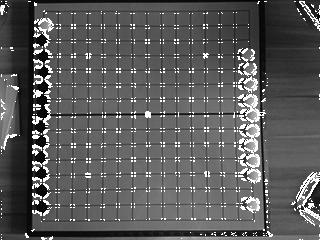
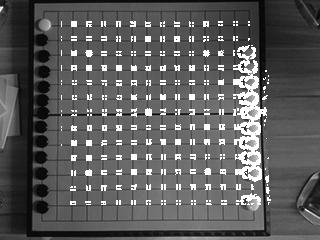
Update.

diff --git a/RECOGNITION/Harris/SOFT_SIM/sim1.py b/RECOGNITION/Harris/SOFT_SIM/sim1.py
@@ -2,7 +2,9 @@ __author__ = 'Dai Tianyu (dtysky)'
 
 from PIL import Image
 import os
-import WindowCreat,MeanFitter,MidFitter
+from WindowCreat import Window
+from RowsCreat import Rows
+from MeanFitter import mean_fitter
 
 ModuleName='Harris'
 
@@ -13,45 +15,48 @@ Right = 280
 
 FileAll = []
 
-for root,dirs,files in os.walk('../IMAGE_FOR_TEST'):
-    for f in files:
-        if os.path.splitext(f)[1]=='.jpg':
-        	FileAll.append((root+'/',f))
-
-def harris(im,d_value,wsize_fitter):
-	def in_range(x,y):
-		return x > Left and x < Right and y > Top and y < Bottom
-	im_fitter = MeanFitter.creat(im,wsize_fitter)
-	#im_fitter = MidFitter.creat(im,wsize_fitter)
+def fitter(im, wsize):
+	data_src = im.getdata()
 	xsize,ysize = im.size
 	data_res = []
+	rows = Rows(data_src, wsize, xsize)
+	win = Window(wsize)
+	for i in range(len(data_src)):
+		if rows.frame_empty():
+			rows = Rows(data_src, wsize, xsize)
+		w = win.update(rows.update())
+		if win.is_enable():
+			data_res.append(mean_fitter(w))
+	return data_res
 
+def harris(im, d_value):
+	def in_range(x,y):
+		return x > Left and x < Right and y > Top and y < Bottom
+	data_src = im.getdata()
+	xsize,ysize = im.size
+	data_res = []
 	now_pix = 0
 	last_pix_col = 0
 	last_pix_row = []
-	for i in range(xsize):
-		last_pix_row.append(0)
-
+	rows = Rows(data_src, 3, xsize)
+	win = Window(3)
 	for y in range(ysize):
 		for x in range(xsize):
-			now_pix = im_fitter[y * xsize + x]
-			if x == 0:
-				last_pix_col = now_pix
-			if y == 0:
-				last_pix_row[x] = now_pix
-
-			diff_col = abs(now_pix - last_pix_col)
-			diff_row = abs(now_pix - last_pix_row[x])
-
-			# if in_range(x,y):
-			# 	data_res.append(1 if diff_col >= d_value and diff_row >= d_value else 0)
-			# else:
-			# 	data_res.append(0)
-			data_res.append(1 if diff_col >= d_value and diff_row >= d_value else 0)
-
-			last_pix_col = now_pix
-			last_pix_row[x] = now_pix
-
+			if rows.frame_empty():
+				rows = Rows(data_src, 3, xsize)
+			w = win.update(rows.update())
+			pix_tblr = [w[0][1],w[2][1],w[1][0],w[1][2]]
+			pix_now = w[1][1]
+			diff_tblr = []
+			for pix in pix_tblr:
+				diff_tblr.append(abs(pix_now - pix))
+			pix_res = 0
+			if in_range(x,y):
+				for d_tb in diff_tblr[0:2]:
+					for d_lr in diff_tblr[2:4]:
+						if d_tb >= d_value and d_lr >= d_value:
+							pix_res = 1
+			data_res.append(pix_res)
 	return data_res
 
 def harris_mark(im,harris_res):
@@ -60,19 +65,19 @@ def harris_mark(im,harris_res):
 	for y in range(ysize):
 		for x in range(xsize):
 			if harris_res[y * xsize + x]:
-				# if x > 0 and y > 0:
-				# 	im_res.putpixel((x-1,y),255)
-				# 	im_res.putpixel((x,y-1),255)
 				im_res.putpixel((x,y),255)
-				# if x < xsize-1 and y < ysize-1:
-				# 	im_res.putpixel((x+1,y),255)
-				# 	im_res.putpixel((x,y+1),255)
 	return im_res
+
+for root,dirs,files in os.walk('../IMAGE_FOR_TEST'):
+    for f in files:
+        if os.path.splitext(f)[1]=='.jpg':
+        	FileAll.append((root+'/',f))
 
 for root,f in FileAll:
 	im_src = Image.open(root+f)
-	harris_res = harris(im_src,5,3)
-	# open('../SIM_CHECK/soft' + f + '.dat','w').write(str(harris_res))
+	im_tmp = im_src.copy()
+	im_tmp.putdata(fitter(im_src, 3))
+	harris_res = harris(im_tmp, 5)
 	im_res = Image.new('1',im_src.size)
 	im_res.putdata(harris_res)
 	im_res.save('../SIM_CHECK/soft' + f + '.bmp')

diff --git a/WINDOW/MeanFitter/SOFT_SIM/sim1.py b/WINDOW/MeanFitter/SOFT_SIM/sim1.py
@@ -2,9 +2,10 @@ __author__ = 'Dai Tianyu (dtysky)'
 
 from PIL import Image
 import os
-import WindowCreat
+from WindowCreat import Window
+from RowsCreat import Rows
 
-ModuleName='WindowCreat'
+ModuleName='MeanFitter'
 
 FileAll = []
 
@@ -13,28 +14,31 @@ for root,dirs,files in os.walk('../IMAGE_FOR_TEST'):
         if os.path.splitext(f)[1]=='.jpg':
         	FileAll.append((root+'/',f))
 
-def mean_th_creat(window):
-	s = sum(window)
-	return s / len(window)
+def mean_fitter(window):
+	w_sum = 0
+	w_len = 0
+	for row in window:
+		w_sum += sum(row)
+		w_len += len(row)
+	return w_sum / w_len
 
-def mid_creat(window):
-	return sorted(window)[len(window)/2]
-
-def mean_creat(im):
+def creat(im, wsize):
 	data_src = im.getdata()
 	xsize,ysize = im.size
 	data_res = []
-	for y in range(ysize):
-		for x in range(xsize):
-			gray = data_src[y * xsize + x]
-			window = WindowCreat.window_creat(9,data_src,xsize,ysize,x,y)
-			th = mean_th_creat(window)
-			data_res.append(th)
+	rows = Rows(data_src, wsize, xsize)
+	win = Window(wsize)
+	for i in range(len(data_src)):
+		if rows.frame_empty():
+			rows = Rows(data_src, wsize, xsize)
+		w = win.update(rows.update())
+		if win.is_enable():
+			data_res.append(mean_fitter(w))
 	return data_res
 
 for root,f in FileAll:
 	im_src = Image.open(root+f)
 	s_x, s_y = im_src.size
 	im_res = Image.new('L', (s_x, s_y), 0)
-	im_res.putdata(mean_creat(im_src))
+	im_res.putdata(creat(im_src, 3))
 	im_res.save('../SIM_CHECK/soft' + f)

diff --git a/RECOGNITION/Harris/SOFT_SIM/WindowCreat.py b/RECOGNITION/Harris/SOFT_SIM/WindowCreat.py
@@ -1,18 +1,28 @@
 __author__ = 'Dai Tianyu (dtysky)'
 
-from PIL import Image
-import os
-
-ModuleName='WindowCreat'
-
-FileAll = []
-
-def window_creat(wsize,data_src,xsize,ysize,xnow,ynow):
-	window = []
-	wsize_half = wsize >> 1
-	for y in range(wsize):
-		for x in range(wsize):
-			xoffset = 0 if xnow - wsize_half + x >= xsize else xnow - wsize_half + x
-			yoffset = 0 if ynow - wsize_half + y >= ysize else ynow - wsize_half + y
-			window.append(data_src[yoffset * xsize + xoffset])
-	return window
+class Window():
+	"""A class for creating and maintaining a window."""
+	def __init__(self, wsize):
+		self.creat(wsize)
+	def creat(self, wsize):
+		self.enable = False
+		self.init = 0
+		self.window = []
+		self.wsize = wsize
+		self.wsize_half = wsize >> 1
+		for y in range(wsize):
+			self.window.append([])
+			for x in range(wsize):
+				self.window[y].append(0)
+	def update(self, rows_col):
+		if self.init == self.wsize_half:
+			self.enable = True
+		else:
+			self.init += 1
+		window_last = list(self.window)
+		for y in range(self.wsize):
+			self.window[y].pop()
+			self.window[y].insert(0, rows_col[y])
+		return window_last
+	def is_enable(self):
+		return self.enable

diff --git a/WINDOW/MeanFitter/SOFT_SIM/WindowCreat.py b/WINDOW/MeanFitter/SOFT_SIM/WindowCreat.py
@@ -1,18 +1,28 @@
 __author__ = 'Dai Tianyu (dtysky)'
 
-from PIL import Image
-import os
-
-ModuleName='WindowCreat'
-
-FileAll = []
-
-def window_creat(wsize,data_src,xsize,ysize,xnow,ynow):
-	window = []
-	wsize_half = wsize >> 1
-	for y in range(wsize):
-		for x in range(wsize):
-			xoffset = 0 if xnow - wsize_half + x >= xsize else xnow - wsize_half + x
-			yoffset = 0 if ynow - wsize_half + y >= ysize else ynow - wsize_half + y
-			window.append(data_src[yoffset * xsize + xoffset])
-	return window
+class Window():
+	"""A class for creating and maintaining a window."""
+	def __init__(self, wsize):
+		self.creat(wsize)
+	def creat(self, wsize):
+		self.enable = False
+		self.init = 0
+		self.window = []
+		self.wsize = wsize
+		self.wsize_half = wsize >> 1
+		for y in range(wsize):
+			self.window.append([])
+			for x in range(wsize):
+				self.window[y].append(0)
+	def update(self, rows_col):
+		if self.init == self.wsize_half:
+			self.enable = True
+		else:
+			self.init += 1
+		window_last = list(self.window)
+		for y in range(self.wsize):
+			self.window[y].pop()
+			self.window[y].insert(0, rows_col[y])
+		return window_last
+	def is_enable(self):
+		return self.enable

diff --git a/RECOGNITION/Harris/SOFT_SIM/RowsCreat.py b/RECOGNITION/Harris/SOFT_SIM/RowsCreat.py
@@ -1,0 +1,32 @@
+__author__ = 'Dai Tianyu (dtysky)'
+
+class Rows():
+	"""A class for creating and maintaining some row cache, using it to sumulate some fifos."""
+	def __init__(self, frame, width, deepth):
+		self.creat(frame, width, deepth)
+		self.frist_fill()
+	def creat(self, frame, width, deepth):
+		self.frame = list(frame)
+		self.frame.reverse()
+		self.width = width
+		self.deepth = deepth
+	def frist_fill(self):
+		self.rows = []
+		for y in range(self.width):
+			self.rows.append([])
+			for x in range(self.deepth):
+				self.rows[y].insert(0,self.frame.pop())
+	def frame_empty(self):
+		return len(self.frame) == 0
+	def rows_empty(self, row):
+		return len(self.rows[row]) == 0
+	def update(self):
+		output = []
+		if not self.frame_empty():
+			self.rows[0].insert(0,self.frame.pop())
+		for i in range(len(self.rows)-1):
+			now_pix = self.rows[i].pop()
+			self.rows[i+1].insert(0,now_pix)
+			output.append(now_pix)
+		output.append(self.rows[self.width - 1].pop())
+		return output

diff --git a/WINDOW/MeanFitter/SOFT_SIM/RowsCreat.py b/WINDOW/MeanFitter/SOFT_SIM/RowsCreat.py
@@ -1,0 +1,32 @@
+__author__ = 'Dai Tianyu (dtysky)'
+
+class Rows():
+	"""A class for creating and maintaining some row cache, using it to sumulate some fifos."""
+	def __init__(self, frame, width, deepth):
+		self.creat(frame, width, deepth)
+		self.frist_fill()
+	def creat(self, frame, width, deepth):
+		self.frame = list(frame)
+		self.frame.reverse()
+		self.width = width
+		self.deepth = deepth
+	def frist_fill(self):
+		self.rows = []
+		for y in range(self.width):
+			self.rows.append([])
+			for x in range(self.deepth):
+				self.rows[y].insert(0,self.frame.pop())
+	def frame_empty(self):
+		return len(self.frame) == 0
+	def rows_empty(self, row):
+		return len(self.rows[row]) == 0
+	def update(self):
+		output = []
+		if not self.frame_empty():
+			self.rows[0].insert(0,self.frame.pop())
+		for i in range(len(self.rows)-1):
+			now_pix = self.rows[i].pop()
+			self.rows[i+1].insert(0,now_pix)
+			output.append(now_pix)
+		output.append(self.rows[self.width - 1].pop())
+		return output

diff --git a/RECOGNITION/Harris/SOFT_SIM/MeanFitter.py b/RECOGNITION/Harris/SOFT_SIM/MeanFitter.py
@@ -1,21 +1,9 @@
 __author__ = 'Dai Tianyu (dtysky)'
 
-import WindowCreat
-
-ModuleName='MeanCreat'
-
-def mean_th_creat(window):
-	s = sum(window)
-	return s / len(window)
-
-def creat(im,wsize):
-	data_src = im.getdata()
-	xsize,ysize = im.size
-	data_res = []
-	for y in range(ysize):
-		for x in range(xsize):
-			gray = data_src[y * xsize + x]
-			window = WindowCreat.window_creat(wsize,data_src,xsize,ysize,x,y)
-			th = mean_th_creat(window)
-			data_res.append(th)
-	return data_res
+def mean_fitter(window):
+	w_sum = 0
+	w_len = 0
+	for row in window:
+		w_sum += sum(row)
+		w_len += len(row)
+	return w_sum / w_len

diff --git a/README.md b/README.md
@@ -124,7 +124,7 @@ Binary Morphology : erosion and dilation.
 
 #### 1.Harris:
 **Progress:**  
-20%.    
+40%.    
 **Function:**  
 Get all  corners from input images by harris method.  
 **HDL Files:**  
